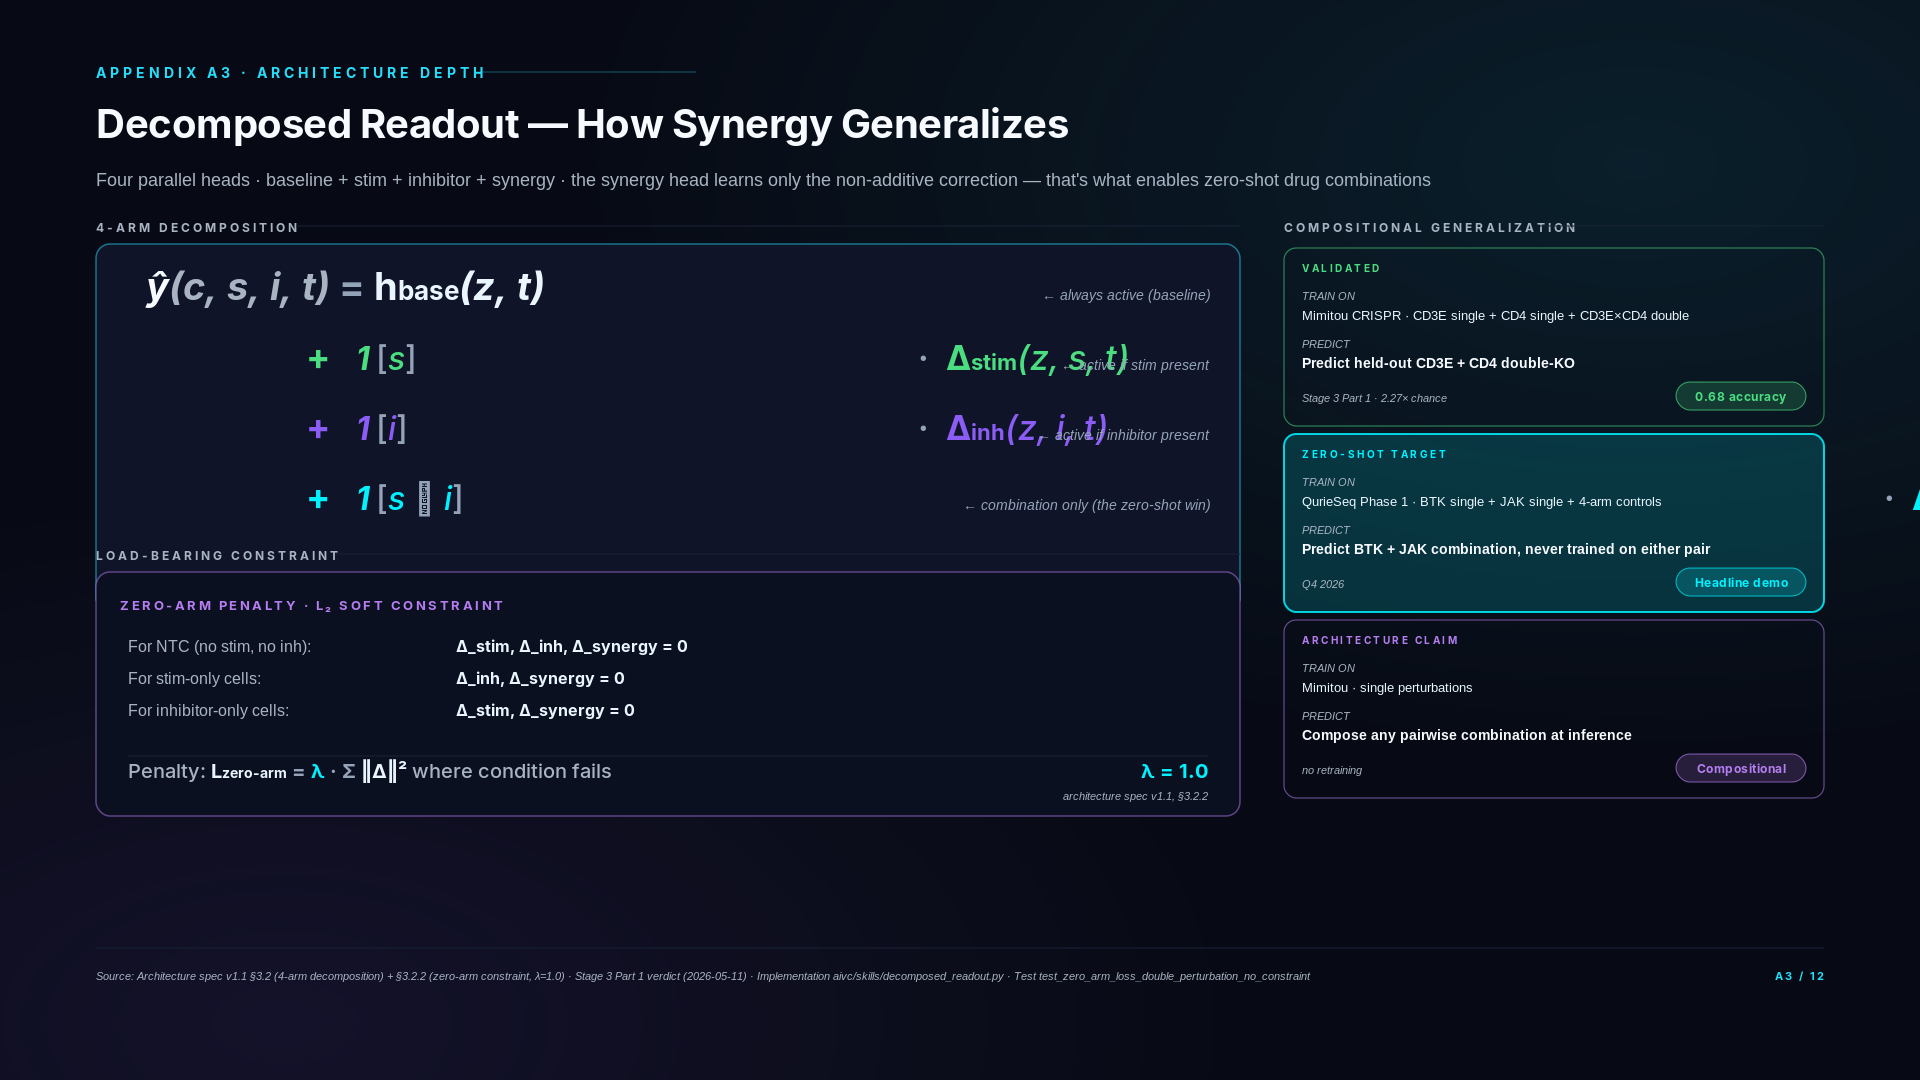
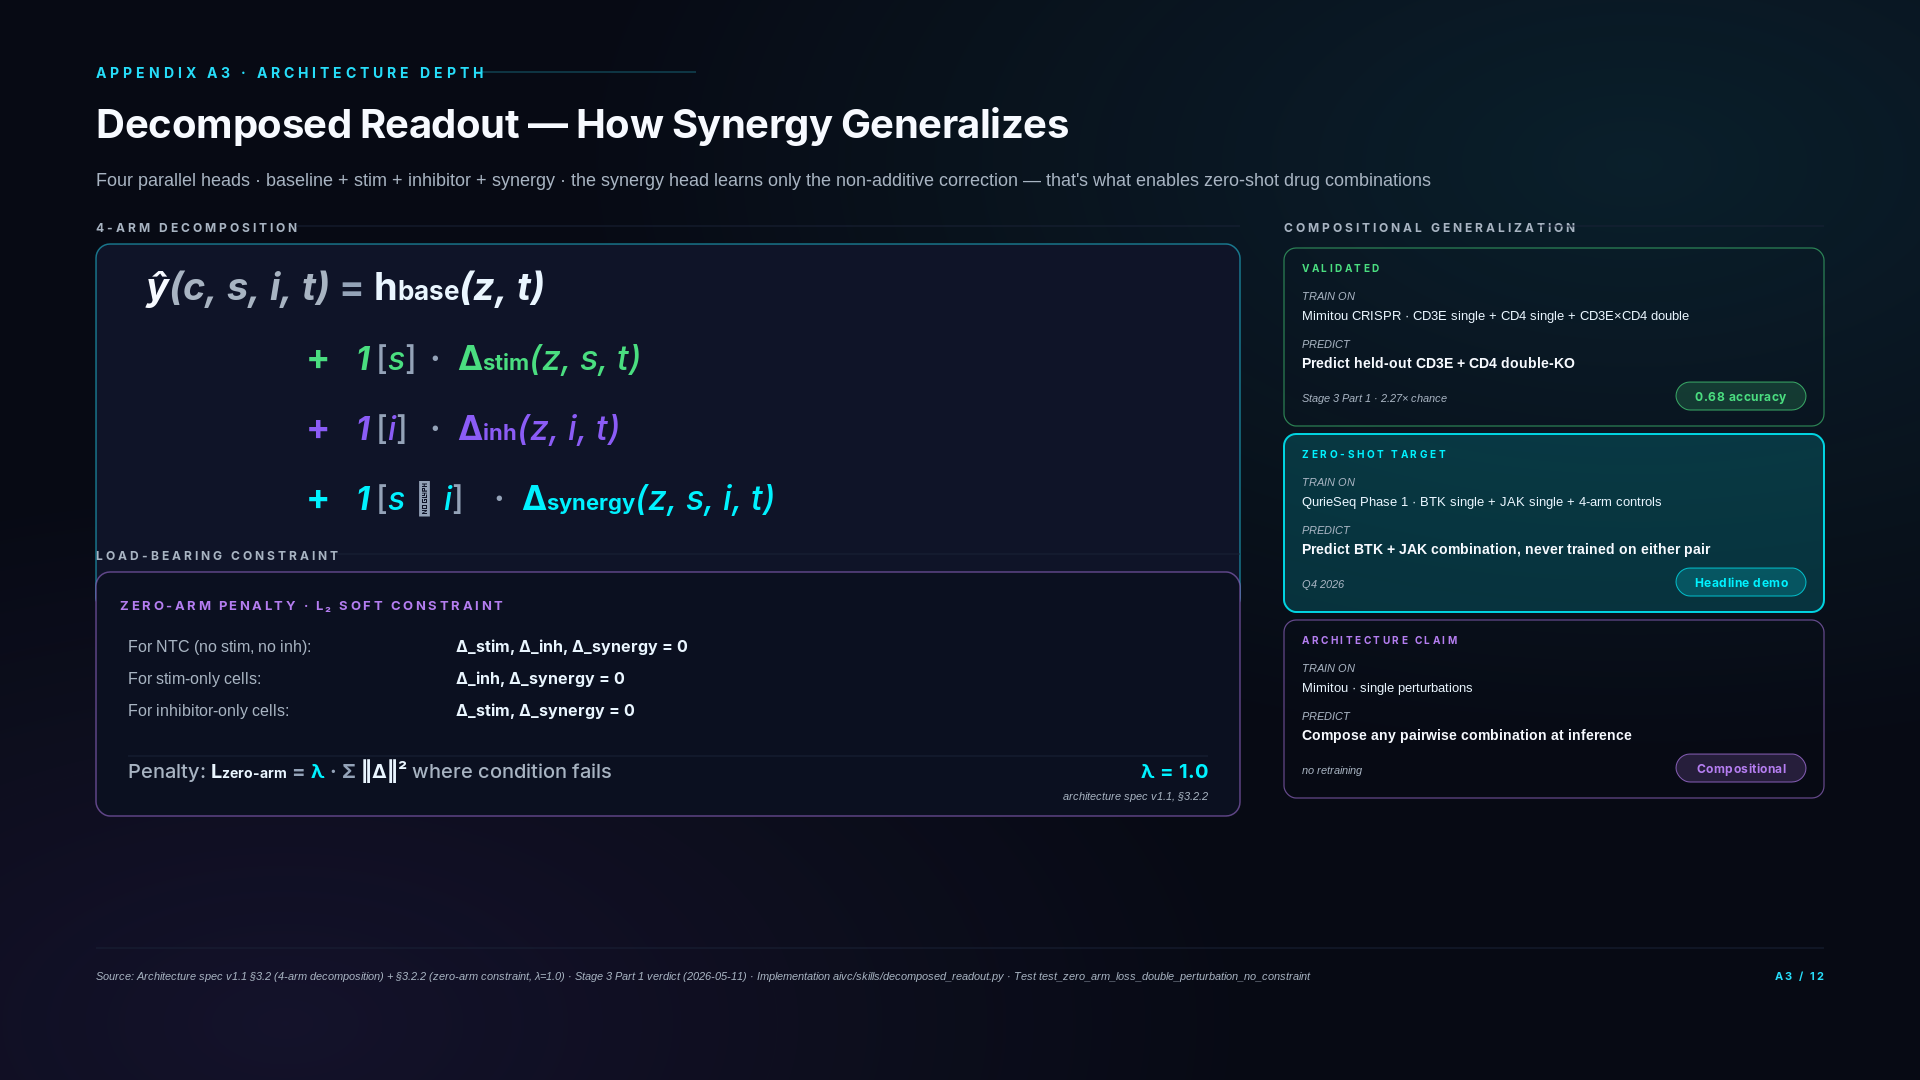
docs(deck): A3 v2 — remove equation annotations
Annotations overlapped with Δ_stim and Δ_inh equation terms at
slide-fill rendering. Annotations were duplicative anyway — the
right-side compositional generalization table conveys the same
information without competing with the equation visually.

Changes:
- Stripped 4 right-side annotations: '← always active (baseline)',
  '← active if stim present', '← active if inhibitor present',
  '← combination only (the zero-shot win)'
- Equation now reads as architecture proof, not explanation:
  color-coding (h_base white, Δ_stim green, Δ_inh purple,
  Δ_synergy cyan) carries the semantics
- Layout breathing room preserved (Option A per prompt) — no
  re-centering of equation within column

Bonus fix surfaced while removing annotations:
- arm_line() position calculation used len(indicator_content) which
  counted HTML tspan markup chars (~200 for line 4), pushing
  Δ_synergy off-card to x=1912. Replaced with explicit
  indicator_visual_chars parameter (1, 1, 5 for lines 2/3/4).
  Δ_synergy now sits at x=522, properly aligned within card.

A3 now reads as: equation as architecture proof (left) →
use-case table as context (right). Two columns, no clutter.

What's preserved: 4-arm equation with color-coded heads · indicator
notation 1[s]/1[i]/1[s ∧ i] · load-bearing constraint theorem block ·
right-side 3-row compositional generalization table with BTK+JAK
zero-shot row visually emphasized · header, footer, pagination.

diff --git a/docs/deck/assets/diagrams/_build_a3.py b/docs/deck/assets/diagrams/_build_a3.py
@@ -174,19 +174,27 @@ def build_svg() -> str:
         f'<tspan fill="{COL_BASE}" font-style="italic">(z, t)</tspan>'
         f'</text>'
     )
-    # Caption right of line 1
-    parts.append(
-        f'<text x="{EQ_X + EQ_W - 30}" y="{eq_top}" fill="{TEXT_DIM}" font-family="{FONT_BODY}" '
-        f'font-size="14" font-weight="400" font-style="italic" text-anchor="end">'
-        f'← always active (baseline)</text>'
-    )
+    # v2: top-line "← always active (baseline)" annotation removed — color-coding
+    # + the right-side compositional generalization table convey the same info
+    # without overlapping the equation terms at slide-fill rendering.
 
     # 4-arm continuation lines, each starting with "+" indented and color-coded head
     LINE_DY = 70
     indent = line_x + 220   # match ŷ width approx so '+ ...' sits under ' = '
 
-    def arm_line(y, plus_color, indicator_content, indicator_color, head_label, head_subscript,
-                 head_args, head_color, caption):
+    # v2: arm_line drops the right-side `caption` annotation entirely.
+    # The annotations ("← stim present", "← active if inhibitor present",
+    # "← combination only (the zero-shot win)") overlapped with Δ_stim
+    # and Δ_inh at slide-fill rendering. Color-coding (h_base white,
+    # Δ_stim green, Δ_inh purple, Δ_synergy cyan) + the right-side
+    # compositional generalization table now do the job the annotations
+    # were doing — without competing visually with the equation.
+    # v2 bug fix: `indicator_visual_chars` is the count of *rendered* glyphs
+    # inside the brackets, not the HTML string length. Previously used
+    # len(indicator_content) which counted tspan markup chars (200+ for
+    # line 4) and pushed Δ_synergy off the card to x=1912.
+    def arm_line(y, plus_color, indicator_content, indicator_visual_chars,
+                 indicator_color, head_label, head_subscript, head_args, head_color):
         parts.append(
             f'<text x="{indent - 60}" y="{y}" fill="{plus_color}" font-family="{FONT_MATH}" '
             f'font-size="36" font-weight="700">+</text>'
@@ -202,8 +210,8 @@ def build_svg() -> str:
             f'font-size="32" font-weight="500"><tspan fill="{TEXT_DIM}">[</tspan>'
             f'{indicator_content}<tspan fill="{TEXT_DIM}">]</tspan></text>'
         )
-        # · operator
-        ind_w = 38 + len(indicator_content) * 14
+        # · operator (positioned based on indicator visual width, not HTML chars)
+        ind_w = 38 + indicator_visual_chars * 16
         parts.append(
             f'<text x="{indent + 10 + ind_w}" y="{y}" fill="{TEXT_DIM}" font-family="{FONT_MATH}" '
             f'font-size="32" font-weight="700">·</text>'
@@ -215,20 +223,17 @@ def build_svg() -> str:
             f'font-size="34" font-weight="700">Δ<tspan font-size="22" baseline-shift="-30%">{head_subscript}</tspan>'
             f'<tspan font-style="italic" font-weight="500" fill="{head_color}">({head_args})</tspan></text>'
         )
-        # caption right
-        parts.append(
-            f'<text x="{EQ_X + EQ_W - 30}" y="{y}" fill="{TEXT_DIM}" font-family="{FONT_BODY}" '
-            f'font-size="14" font-weight="400" font-style="italic" text-anchor="end">'
-            f'{caption}</text>'
-        )
 
-    arm_line(eq_top + LINE_DY, COL_STIM, "<tspan font-style='italic'>s</tspan>", COL_STIM,
-             "Δ_stim", "stim", "z, s, t", COL_STIM, "← active if stim present")
-    arm_line(eq_top + 2 * LINE_DY, COL_INH, "<tspan font-style='italic'>i</tspan>", COL_INH,
-             "Δ_inh", "inh", "z, i, t", COL_INH, "← active if inhibitor present")
+    arm_line(eq_top + LINE_DY, COL_STIM,
+             "<tspan font-style='italic'>s</tspan>", 1,
+             COL_STIM, "Δ_stim", "stim", "z, s, t", COL_STIM)
+    arm_line(eq_top + 2 * LINE_DY, COL_INH,
+             "<tspan font-style='italic'>i</tspan>", 1,
+             COL_INH, "Δ_inh", "inh", "z, i, t", COL_INH)
     arm_line(eq_top + 3 * LINE_DY, COL_SYN,
              "<tspan font-style='italic'>s</tspan><tspan fill='" + TEXT_DIM + "'> ∧ </tspan><tspan font-style='italic'>i</tspan>",
-             COL_SYN, "Δ_synergy", "synergy", "z, s, i, t", COL_SYN, "← combination only (the zero-shot win)")
+             5,  # visual: 's' + ' ' + '∧' + ' ' + 'i' = 5 glyphs
+             COL_SYN, "Δ_synergy", "synergy", "z, s, i, t", COL_SYN)
 
     # ====================================================================
     # CONSTRAINT BLOCK (theorem-style)  x=96..1240, y=560..820
